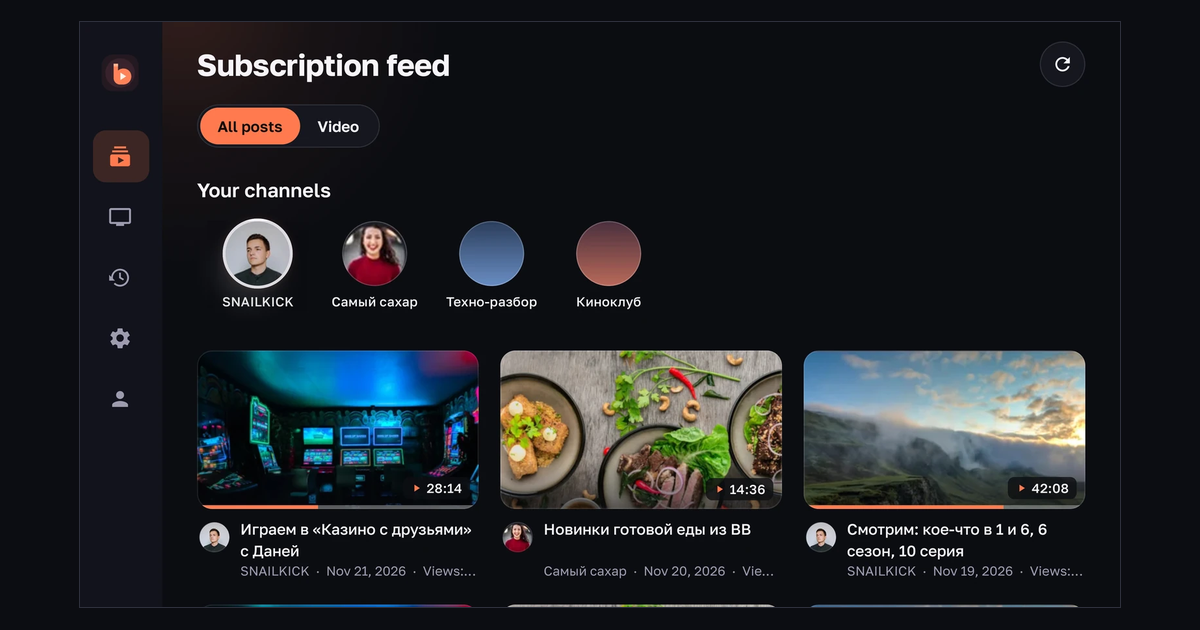
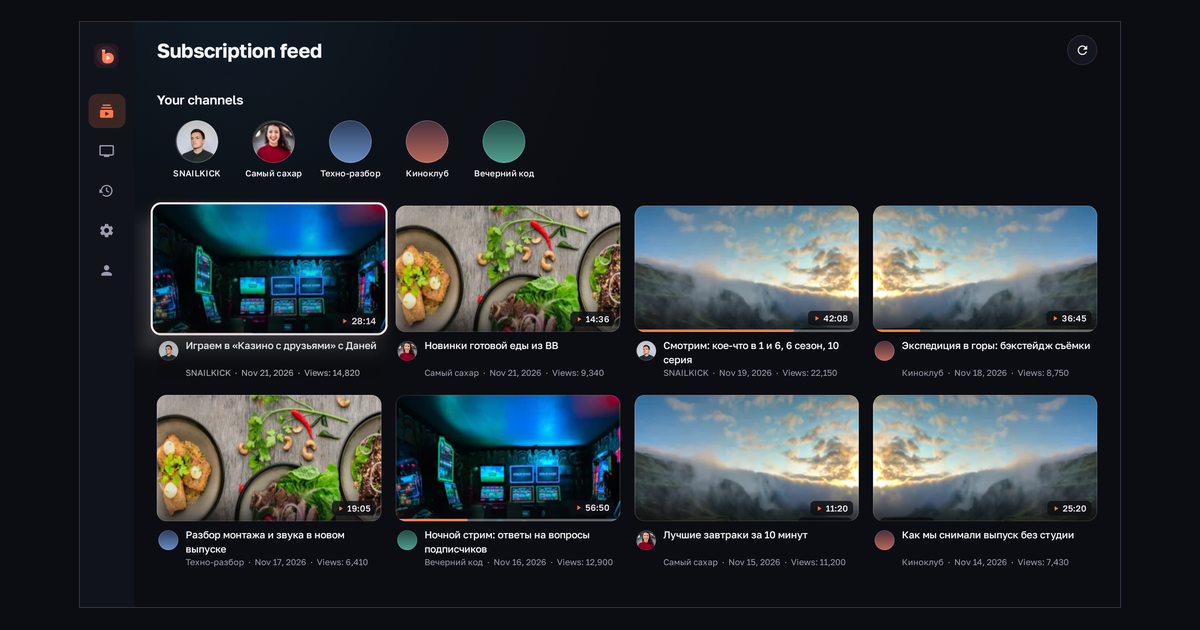
Релиз 2.2.0: скачивание видео и исправления обновлений

diff --git a/docs/index.html b/docs/index.html
@@ -24,7 +24,7 @@
     "name": "Boosty ATV",
     "operatingSystem": "Android, Android TV",
     "applicationCategory": "MultimediaApplication",
-    "softwareVersion": "2.1.0",
+    "softwareVersion": "2.2.0",
     "offers": { "@type": "Offer", "price": "0", "priceCurrency": "RUB" },
     "downloadUrl": "https://github.com/cergo666/BoostyATV/releases/latest/download/BoostyATV.apk",
     "codeRepository": "https://github.com/cergo666/BoostyATV",
@@ -75,7 +75,7 @@
         <dl class="hero-specs" aria-label="Кратко о релизе">
           <div>
             <dt>Версия</dt>
-            <dd data-version>v2.1.0</dd>
+            <dd data-version>v2.2.0</dd>
           </div>
           <div>
             <dt>Размер APK</dt>
@@ -175,10 +175,11 @@
 
       <ul class="feature-list">
         <li>
-          <h3>Плеер Media3 и кастомный HUD</h3>
+          <h3>Плеер Media3, кастомный HUD и скачивание видео</h3>
           <p>
-            Встроенный ExoPlayer с&nbsp;боковой панелью настроек поверх видео: переключение разрешения от&nbsp;360p до&nbsp;1080p+,
-            скорость воспроизведения и&nbsp;перемотка стрелками пульта. При желании видео можно передать во&nbsp;внешний плеер.
+            Встроенный ExoPlayer с&nbsp;боковой панелью настроек поверх видео: переключение разрешения от&nbsp;360p до&nbsp;4K,
+            скорость воспроизведения, быстрая перемотка и&nbsp;сохранение видео в&nbsp;память устройства с&nbsp;выбором качества.
+            При желании ролик можно открыть во&nbsp;внешнем плеере.
           </p>
         </li>
         <li>
@@ -235,7 +236,7 @@
             </a>
           </div>
           <p class="install-meta">
-            <span data-version>v2.1.0</span>,
+            <span data-version>v2.2.0</span>,
             <span data-size>3,2 МБ</span>,
             <span data-date>21 ноября 2026</span>
           </p>
